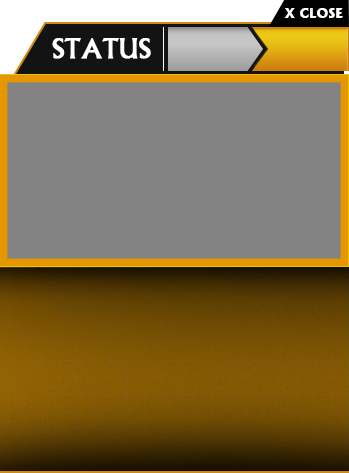
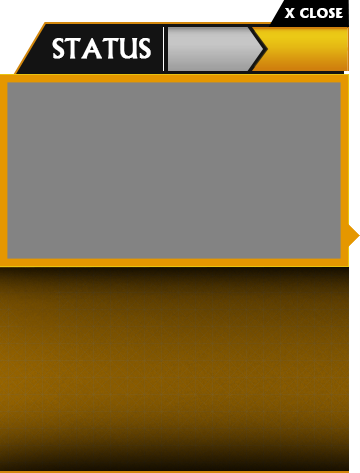
Moved the popups to the left

diff --git a/style.css b/style.css
@@ -181,10 +181,10 @@ h2
 
 .pathGoalPopup {
 	position: absolute;
-	width: 349px;
+	width: 360px;
 	height: 473px;
 	background: url("goalpopup.png");
-	transform: translate(-131.5px, -207.5px);
+	transform: translate(-368px, -207.5px);
 	background-repeat: no-repeat;
 }
 
